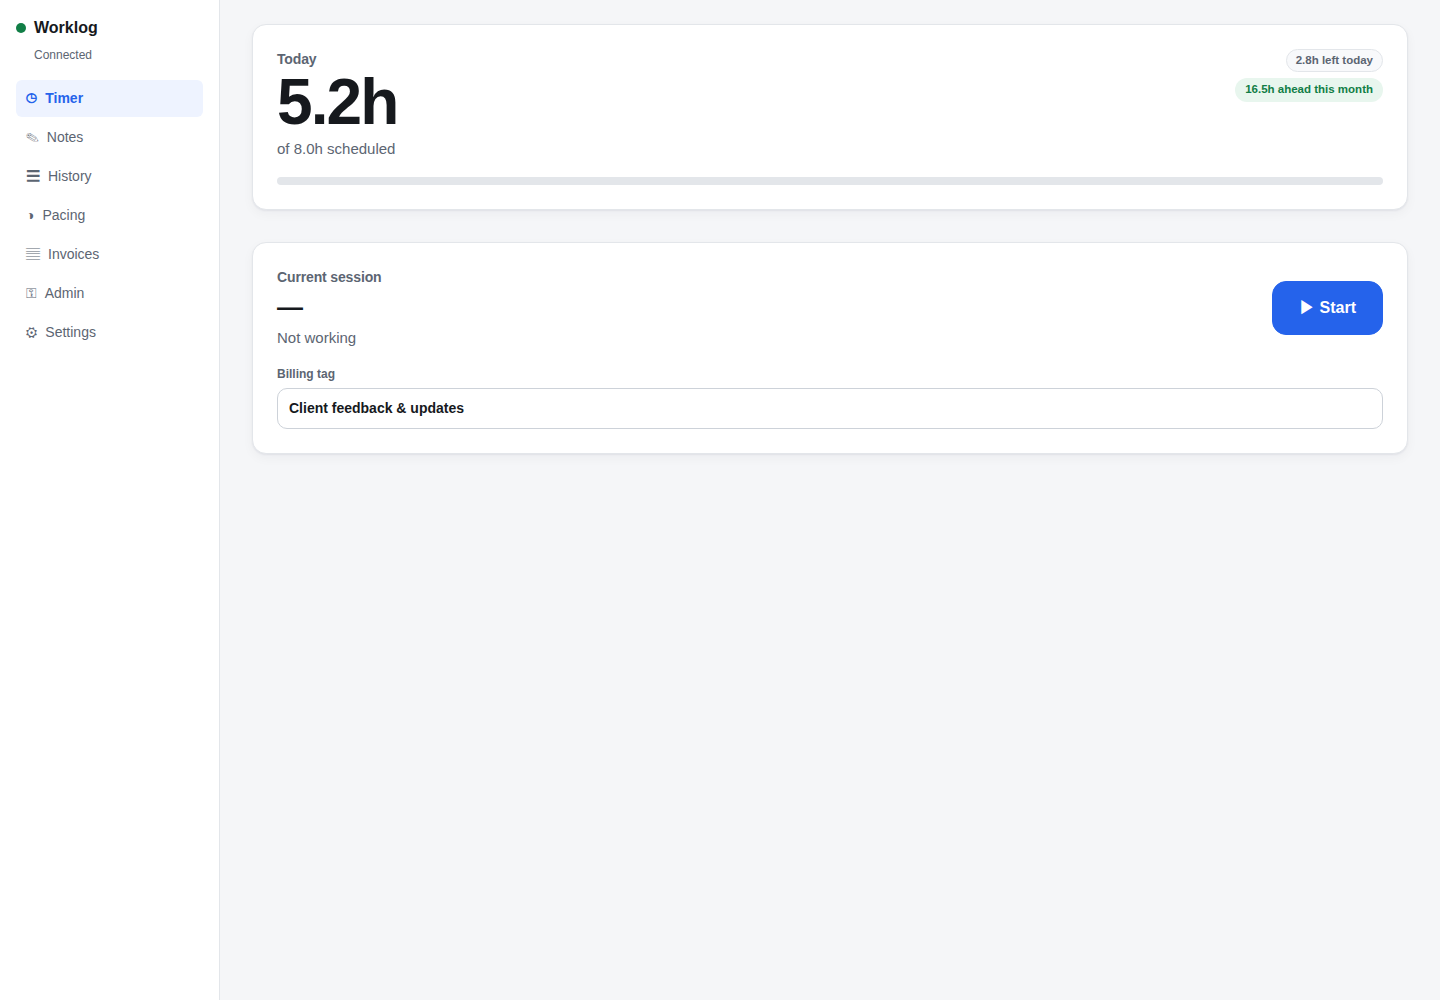
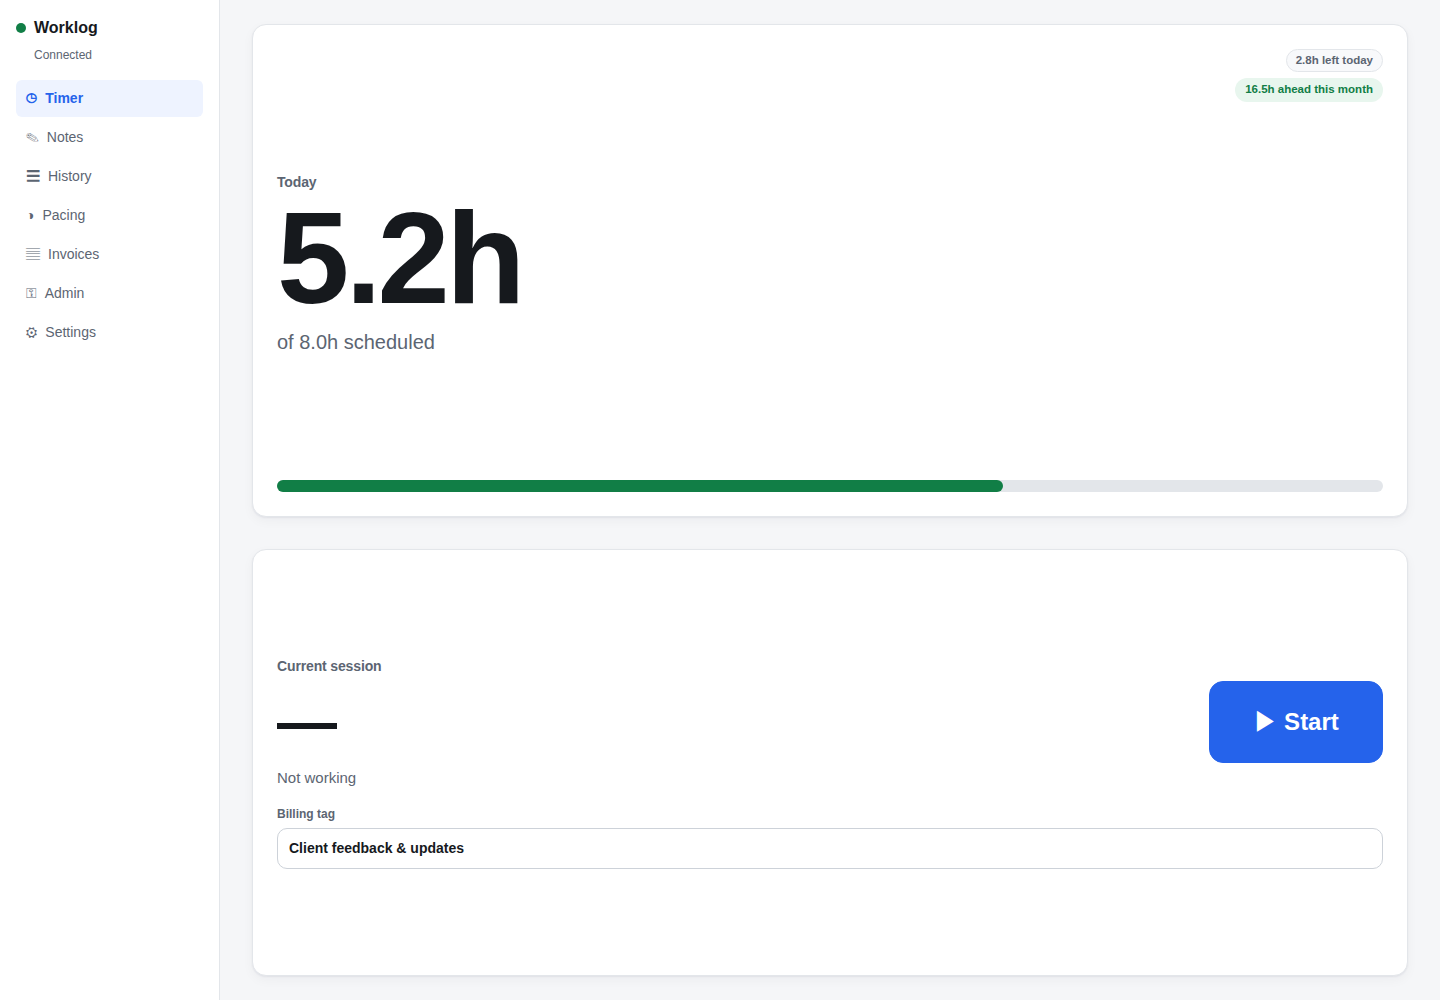
26.20 — the timer screen uses the window, and the bar paints again
Two cards sat at the top of a desktop screen with two thirds of it blank below
them. Nothing new goes there: what the screen is for is already on it, and it
was being shown at the size a far more crowded screen would need. The cards take
the height and the two figures take as much of it as they can, today's total
getting the larger share — that inversion is what section 3 is built on.

Scaled by `vh`, not `vw`. The number grew with the window's *width* before,
which is the axis that already had something to do with the space.

Found while doing it: **the segmented bar has not drawn a single segment since
26.19.** `.bar > span` is a child selector and 26.19 moved the segments inside a
`.bar-fill`, so nothing matched — every bar in the app has been a grey track with
an invisible fill. The 26.19 check measures the segments' widths against the
day's arithmetic, and `flex-grow` still gave them widths, so a bar that painted
nothing passed a check about how wide its paint was. There is now a check that
a segment has height and a colour that is neither transparent nor the track's.

Also found: the first arrangement gave the space to `grid-template-rows`'
middle row, which is the *session* card on an ordinary day and something else
again whenever an error strip or a holiday warning is on screen. The card that
grows is named now rather than counted.

And the phone: the breakpoint that turned the growth off was `max-width: 700px`
[…]

diff --git a/web/src/styles.css b/web/src/styles.css
@@ -600,14 +600,23 @@ label.field {
   overflow: hidden;
 }
 
-.bar > span {
+/*
+ * A descendant, not a child.
+ *
+ * 26.19 put the segments inside a `.bar-fill` so the fill could be exactly `progress` wide, and
+ * this rule still said `>`. Nothing matched: the bar has been drawing its track and no segments at
+ * all since that change, on every screen that uses one. The check written for 26.19 measures the
+ * segments' *widths* against the day's arithmetic, and widths are what `flex-grow` still gave them
+ * — so a bar that painted nothing passed a check about how wide its paint was.
+ */
+.bar span {
   display: block;
   height: 100%;
   border-radius: 999px;
   background: var(--good);
 }
 
-.bar > span.over {
+.bar span.over {
   background: var(--accent);
 }
 
@@ -1824,4 +1833,102 @@ button.maskfield:disabled {
   border: 1px solid var(--line);
   border-radius: var(--r-sm);
   background: var(--panel-2);
+}
+
+/*
+ * 26.20 — the timer screen uses the whole window.
+ *
+ * Two cards sat at the top of a desktop screen with two thirds of it blank below them. Nothing new
+ * goes here to fill it: what the screen is for is already on it, and it was being shown at the
+ * size a screen four times as crowded would need. So the cards take the height, and the two
+ * figures on them — today's total and the running clock — take as much of it as they can.
+ *
+ * The total gets the larger share, because that is the inversion section 3 is built on: the
+ * question asked fifty times a day is "how much have I done today", and the session clock is a
+ * detail of how.
+ */
+.timerscreen {
+  display: flex;
+  flex-direction: column;
+  gap: var(--s-4);
+  /* `.main` is the scroll container, so this resolves against its content box. */
+  min-height: 100%;
+}
+
+.timerscreen > .card.today,
+.timerscreen > .card.session {
+  display: flex;
+  flex-direction: column;
+}
+
+.timerscreen > .card.today {
+  flex: 1.5;
+}
+
+.timerscreen > .card.session {
+  flex: 1;
+  justify-content: center;
+}
+
+/*
+ * The figure centred in whatever the card was given; the pills still at the top of it.
+ *
+ * Centring the *row* centred both, and the two pills then floated in the middle of the card with
+ * nothing beside them — they annotate the figure, and half a card away from it they read as a
+ * separate thing that happens to be on the same screen.
+ */
+.today-head {
+  flex: 1;
+  align-items: stretch;
+}
+
+.today-figure {
+  display: flex;
+  flex-direction: column;
+  justify-content: center;
+}
+
+/*
+ * `vh` and not `vw`: the constraint being spent here is the height nothing was using. `9vw` grew
+ * the number when the window got *wider*, which is the axis that already had a use for the space.
+ */
+.timerscreen .huge {
+  font-size: clamp(56px, 13vh, 168px);
+}
+
+.timerscreen .today-sub {
+  font-size: clamp(14px, 2vh, 22px);
+}
+
+.timerscreen .card.session .big {
+  font-size: clamp(26px, 6vh, 68px);
+}
+
+/* Pushed to the bottom of the card it belongs to, since it measures the figure above it. */
+.timerscreen .bar {
+  height: 12px;
+  margin-top: auto;
+}
+
+.timerscreen .card.session button.btn.big {
+  padding: clamp(14px, 2.2vh, 26px) clamp(26px, 3vw, 44px);
+  font-size: clamp(16px, 2.4vh, 24px);
+}
+
+/*
+ * The type has a width ceiling as well as a height one.
+ *
+ * `13vh` on a phone held sideways is a reasonable number of pixels and a ridiculous proportion of
+ * a 390px-wide screen — "12.5h" at that size runs off the edge. Height is the space being spent
+ * here, so height leads, and width is the limit on how much of it can be taken.
+ */
+@media (max-width: 700px) {
+  .timerscreen .huge {
+    font-size: clamp(40px, min(13vh, 20vw), 168px);
+  }
+
+  .today-figure {
+    /* Beside the pills rather than under them, which is what this narrow row has room for. */
+    justify-content: flex-start;
+  }
 }

diff --git a/web/src/screens/Timer.tsx b/web/src/screens/Timer.tsx
@@ -162,7 +162,7 @@ export function Timer() {
   };
 
   return (
-    <div className="stack" style={{ gap: 16 }}>
+    <div className="timerscreen">
       {lastError && (
         <div className="notice bad row between">
           <span>{lastError}</span>
@@ -177,12 +177,12 @@ export function Timer() {
         <div className="notice warn">{snapshot.holidayWarning}</div>
       )}
 
-      <div className="card">
-        <div className="row between" style={{ alignItems: "flex-start" }}>
-          <div>
+      <div className="card today">
+        <div className="row between today-head">
+          <div className="today-figure">
             <h3>Today</h3>
             <div className="huge">{duration(todayMs)}</div>
-            <div className="muted" style={{ marginTop: 4 }}>
+            <div className="muted today-sub" style={{ marginTop: 4 }}>
               {targetMs > 0 ? `of ${duration(targetMs)} scheduled` : "not a scheduled workday"}
             </div>
           </div>
@@ -215,7 +215,7 @@ export function Timer() {
           bar. The running session is the last segment and grows as you watch.
         */
         }
-        <div className="bar segmented" style={{ marginTop: 16 }}>
+        <div className="bar segmented">
           <div className="bar-fill" style={{ width: `${progress * 100}%` }}>
             {segments.map((seg) => (
               <span
@@ -231,7 +231,7 @@ export function Timer() {
         </div>
       </div>
 
-      <div className="card">
+      <div className="card session">
         <div className="row between wrap" style={{ gap: 16 }}>
           <div>
             <h3>Current session</h3>
